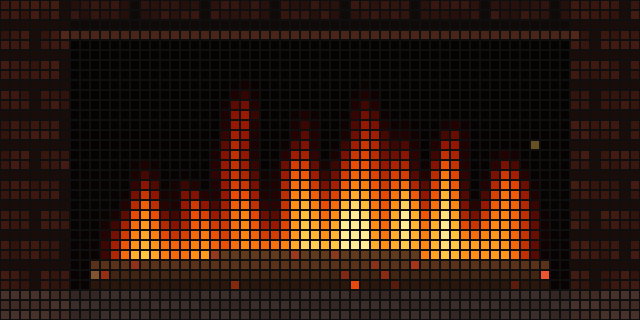
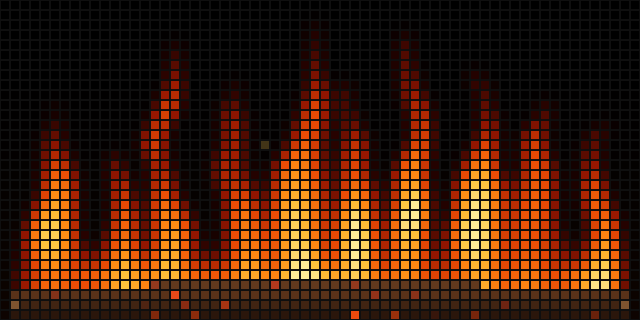
Fireplace: full screen, taller flames

diff --git a/display_control/fire_display.py b/display_control/fire_display.py
@@ -1,12 +1,12 @@
 #!/usr/bin/env python3
 """
-Fireplace mode: a calm fire in a brick fireplace, for cosy evenings.
+Fireplace mode: a calm fire filling the whole panel, for cosy evenings.
 
 The flames are drawn, not simulated: a few teardrop-shaped flame tongues sit on the logs.
 Each one slowly grows, shrinks and sways (smooth, unhurried motion), and a soft turbulence
 pattern drifting upwards breaks up their edges. Heat is coloured from deep red over orange
-to a yellow-white core. Embers glow on the logs, sparks rise now and then, and the bricks
-and hearth catch the firelight.
+to a yellow-white core. Embers glow on the logs, sparks rise now and then, and a faint warm
+glow lights the dark behind the flames.
 
 FIRE_BEDTIME (e.g. 23:00, empty = never): from then on the fire burns down over half an hour
 to glowing embers, and comes back at 6:00.
@@ -72,10 +72,10 @@ class Fire:
         self.W, self.H = W, H
         wide = display.wide
         self.palette = palette()
-        self.side = 7 if wide else 3
-        self.top = 4 if wide else 3
-        self.hearth = H - 3
-        self.logs_y = self.hearth - 3
+        self.side = 0                                   # full screen: no fireplace surround
+        self.top = 0
+        self.hearth = H
+        self.logs_y = H - 3
         self.base = self.logs_y - 1                      # flames stand on the logs
         yy, xx = np.mgrid[0:H, 0:W].astype(np.float32)
         self.xx, self.yy = xx, yy
@@ -83,17 +83,17 @@ class Fire:
         rnd = random.Random(3)
         # Flame tongues: centre x, half width at the base, height; the middle ones tallest
         inner = W - 2 * self.side
-        count = 8 if wide else 4
+        count = 10 if wide else 5
         self.tongues = []
         for i in range(count):                          # overlapping, irregular tongues
             frac = (i + 0.5) / count
             middle = 1 - abs(frac - 0.5) * 1.7
             self.tongues.append({
-                "x": self.side + inner * (0.1 + 0.8 * frac) + rnd.uniform(-1.5, 1.5),
+                "x": inner * (0.04 + 0.92 * frac) + rnd.uniform(-1.5, 1.5),
                 "w": (4.2 if wide else 3.0) * rnd.uniform(0.75, 1.2),
-                "h": (self.base - self.top) * (0.4 + 0.55 * middle) * rnd.uniform(0.8, 1.15),
+                "h": (self.base - self.top) * (0.65 + 0.45 * middle) * rnd.uniform(0.85, 1.1),
                 "seed": rnd.uniform(0, 100)})
-        self.bed = (self.side + 3, W - self.side - 4)   # glowing bed of flame along the logs
+        self.bed = (1, W - 2)                           # glowing bed of flame along the logs
         self.background = self._build_background()
         self.logs = self._build_logs()
         self.embers = [(x, y, rnd.uniform(0, 100)) for x, y, _ in self.logs[::4]]
@@ -105,37 +105,22 @@ class Fire:
     # --- static parts ---
 
     def _build_background(self):
-        W, H = self.W, self.H
-        img = np.zeros((H, W, 3), dtype=np.float32)
-        rnd = random.Random(5)
-        brick, mortar = (50, 21, 15), (15, 9, 8)
-        for y in range(H):
-            for x in range(W):
-                inside = self.side <= x < W - self.side and self.top <= y < self.hearth
-                if inside:
-                    depth = (y - self.top) / max(1, self.hearth - self.top)
-                    img[y, x] = (5 + 4 * depth, 2 + 2 * depth, 2)          # sooty back wall
-                elif y % 3 == 2 or (x + (3 if (y // 3) % 2 else 0)) % 7 == 6:
-                    img[y, x] = mortar
-                else:
-                    shade = rnd.uniform(0.75, 1.15)
-                    img[y, x] = [c * shade for c in brick]
-        for y in range(self.hearth, H):
-            for x in range(W):
-                img[y, x] = (40, 38, 40) if (x // 5 + y) % 2 else (33, 31, 33)
-        img[self.top - 1, self.side - 1:W - self.side + 1] = (72, 36, 25)   # lintel
+        """Dark, with a faint warm haze rising from the bottom."""
+        depth = (np.arange(self.H, dtype=np.float32) / (self.H - 1)) ** 2
+        img = np.zeros((self.H, self.W, 3), dtype=np.float32)
+        img[:] = (depth[:, None, None] * np.array((14, 4, 1), dtype=np.float32))
         return img
 
     def _build_logs(self):
         pixels = []
-        x0, x1 = self.side + 2, self.W - self.side - 3
+        x0, x1 = 1, self.W - 2
         mid = (x0 + x1) // 2
         for x in range(x0, x1 + 1):
             for dy, color in ((0, (84, 48, 24)), (1, (62, 34, 17)), (2, (40, 21, 11))):
                 pixels.append((x, self.logs_y + dy, color))
         for x in (x0, x1):                              # cut ends of the log, lighter wood
             pixels.append((x, self.logs_y + 1, (120, 80, 45)))
-        half = 10 if self.d.wide else 5
+        half = 16 if self.d.wide else 8
         for x in range(mid - half, mid + half + 1):    # second log across the first
             pixels.append((x, self.logs_y - 1, (92, 54, 28)))
         return pixels
@@ -202,11 +187,8 @@ class Fire:
         fire = self.palette[(heat * 255).astype(np.uint8)]
         img[self.inside] = np.maximum(img[self.inside], fire[self.inside])
 
-        # firelight on bricks and hearth, gently flickering
+        # firelight on the logs, gently flickering
         glow = (0.7 + 0.15 * wobble(t * 2.1, 1) + 0.15 * wobble(t * 3.3, 2)) * strength
-        img[self.hearth:] += np.array((38, 15, 4)) * glow
-        img[:, :self.side] += np.array((20, 7, 2)) * glow
-        img[:, self.W - self.side:] += np.array((20, 7, 2)) * glow
 
         for x, y, color in self.logs:
             img[y, x] = np.array(color) * (0.8 + 0.5 * glow)
